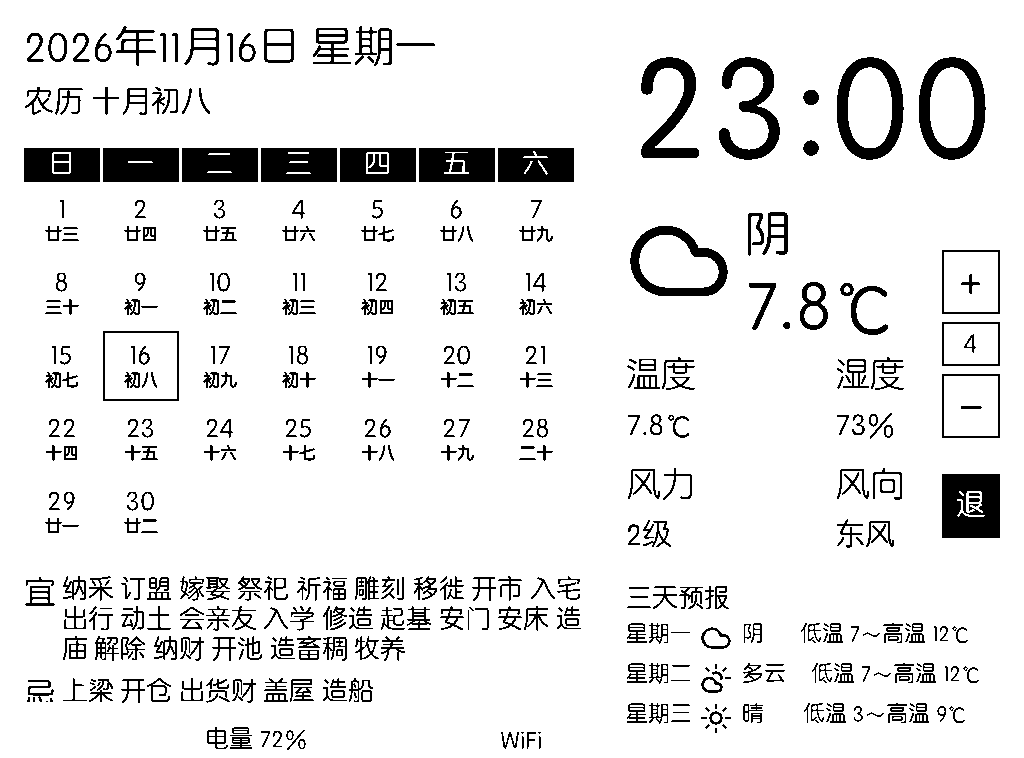
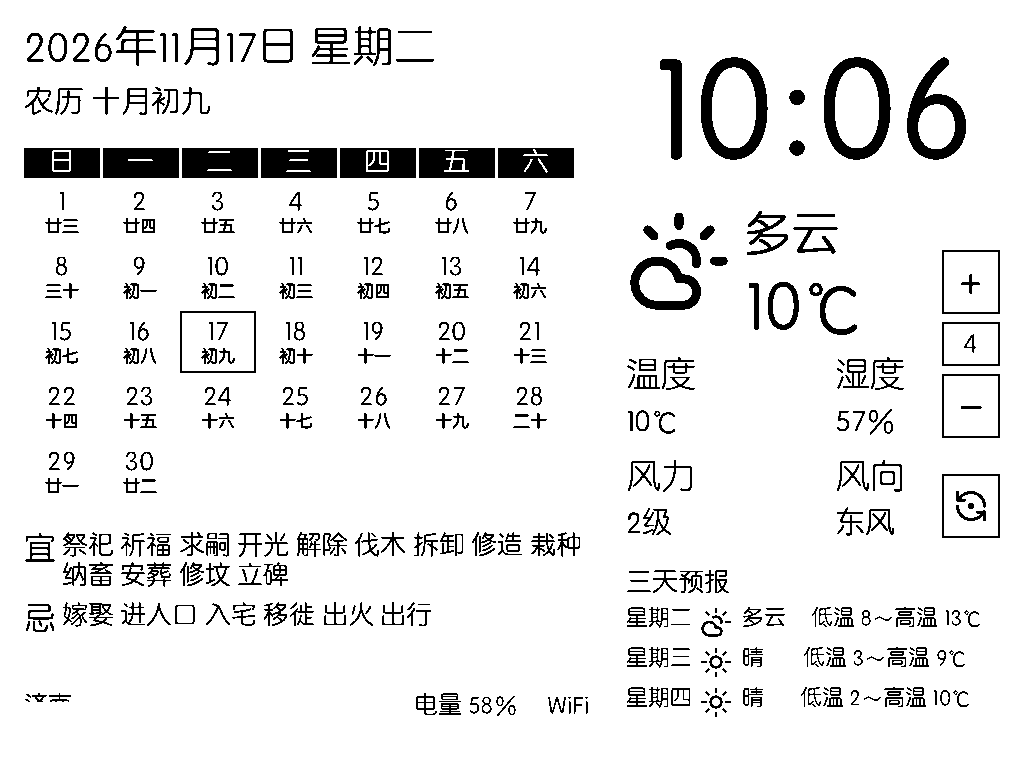
feat: 退出按钮改为手动刷新（短按刷新+全刷，长按 5 秒退出）；天气取数改为每 6 次一次全刷；网络就绪等待 5s→10s；状态栏电量与 WiFi 贴右

diff --git a/app/src/main.rs b/app/src/main.rs
@@ -40,6 +40,12 @@ const CLOCK_INTERVAL: Duration = Duration::from_secs(1);
 const WEATHER_INTERVAL: Duration = Duration::from_secs(600);
 const REQUEST_TIMEOUT: Duration = Duration::from_secs(12);
 
+/// 每取几次天气做一次全屏 GC16 刷新。取数间隔 10 分钟，
+/// 所以 6 次正好是一小时一次全刷，其余时候只走局部刷新。
+const WEATHER_FULL_REFRESH_EVERY: u64 = 6;
+/// 天气刷新计数器（跨线程累加，只在取数回来那一刻改）
+static WEATHER_REFRESH_TICKS: std::sync::atomic::AtomicU64 = std::sync::atomic::AtomicU64::new(0);
+
 // ---------- 天气数据结构 ----------
 
 #[derive(Deserialize)]
@@ -236,8 +242,9 @@ fn with_network(mut f: impl FnMut() -> bool) -> bool {
             return f();
         }
         log("网络就绪");
-        // 路由出现不等于能上网：DNS/HTTP 还要几秒才通，实测紧接着取数会失败
-        std::thread::sleep(std::time::Duration::from_secs(5));
+        // 路由出现不等于能上网：DNS/HTTP 还要更久才通，5 秒时每轮第一发都失败
+        // （靠下面的重试兜住），实测要 10 秒才稳定。
+        std::thread::sleep(std::time::Duration::from_secs(10));
     }
     let mut ok = f();
     if !ok {
@@ -349,6 +356,7 @@ fn spawn_weather_update(
     weak: slint::Weak<AppWindow>,
     agent: ureq::Agent,
     busy: std::sync::Arc<std::sync::atomic::AtomicU64>,
+    force_full: bool,
 ) {
     use std::sync::atomic::Ordering;
     let now = std::time::SystemTime::now()
@@ -367,8 +375,17 @@ fn spawn_weather_update(
             if let Some(app) = weak.upgrade() {
                 apply_snapshot(&app, snap);
                 #[cfg(all(target_arch = "arm", target_os = "linux", target_env = "musl"))]
-                unsafe {
-                    (&*KINDLE_BACKEND).request_full_refresh();
+                {
+                    // 天气每 10 分钟才变一次，屏幕上只有温度/湿度这些字在换，
+                    // 局部刷新足够干净（每分钟走的时钟验证过，没肉眼可见残影）。
+                    // 攒到第 6 次（= 一小时）才走一次 GC16 全刷，把长期累积的
+                    // 底灰彻底清掉，也省下每 10 分钟一次的全屏闪烁。
+                    let n = WEATHER_REFRESH_TICKS.fetch_add(1, Ordering::Relaxed) + 1;
+                    if force_full || n % WEATHER_FULL_REFRESH_EVERY == 0 {
+                        unsafe {
+                            (&*KINDLE_BACKEND).request_full_refresh();
+                        }
+                    }
                 }
             }
             busy.store(0, Ordering::Relaxed);
@@ -663,7 +680,7 @@ fn main() {
     // 不能在这里直接请求：此时 Slint 还没渲染出第一帧，全刷区域和画面状态都不对。
     #[cfg(all(target_arch = "arm", target_os = "linux", target_env = "musl"))]
     let first_frame_pending = std::sync::Arc::new(std::sync::atomic::AtomicBool::new(true));
-    spawn_weather_update(app.as_weak(), agent.clone(), weather_busy.clone());
+    spawn_weather_update(app.as_weak(), agent.clone(), weather_busy.clone(), false);
 
     // 亮度控制 + 退出
     {
@@ -686,6 +703,23 @@ fn main() {
                 let v = (app.get_brightness() - 4).max(0);
                 set_frontlight(v);
                 app.set_brightness(v);
+            }
+        });
+
+        // 短按刷新图标：立刻重取一次天气，并强制一次 GC16 全刷（手动操作要立刻见效，
+        // 不必等下一个整点）。上一轮还没回来时 spawn_weather_update 会自己跳过。
+        app.on_refresh_weather({
+            let weak = app.as_weak();
+            let agent = agent.clone();
+            let weather_busy = weather_busy.clone();
+            move || {
+                log("手动刷新");
+                spawn_weather_update(
+                    weak.clone(),
+                    agent.clone(),
+                    weather_busy.clone(),
+                    true,
+                );
             }
         });
 
@@ -790,7 +824,7 @@ fn main() {
         let weather_timer = {
             let t = Timer::default();
             t.start(TimerMode::Repeated, WEATHER_INTERVAL, move || {
-                spawn_weather_update(weak.clone(), agent.clone(), weather_busy.clone());
+                spawn_weather_update(weak.clone(), agent.clone(), weather_busy.clone(), false);
             });
             t
         };

diff --git a/README.md b/README.md
@@ -2,7 +2,7 @@
 
 把闲置的 Kindle Paperwhite 2 改造成墨水屏天气时钟。
 
-一屏显示日期、农历、当月日历、黄历宜忌、时钟、实时天气和三日预报；右侧有亮度调节和退出按钮，退出即回到原生书库。
+一屏显示日期、农历、当月日历、黄历宜忌、时钟、实时天气和三日预报；右侧有亮度调节和手动刷新按钮（长按 5 秒退出，回到原生书库）。
 
 ![界面](docs/screenshot.png)
 
@@ -11,7 +11,8 @@
 - **纯本地渲染**：Rust + Slint 软件渲染，直接写 framebuffer，不依赖浏览器/网络运行时
 - **开箱即用**：数据全部来自公开 HTTP 接口，不需要 Home Assistant 或任何自建服务
 - **省电**：设备平时可完全离线，取数时按需开关 WiFi；系统 WiFi 状态被保留，不会强制改动
-- **干净的退出**：点「退」画好全屏提示后停掉框架，再恢复书库，不会在屏幕上闪状态栏
+- **手动刷新**：点刷新图标立刻重取天气并全屏重绘；长按 5 秒才退出，避免误触
+- **干净的退出**：画好全屏提示后停掉框架，再恢复书库，不会在屏幕上闪状态栏
 - **KUAL 集成**：装好后在 KUAL 菜单里一键启动
 
 ## 技术栈
